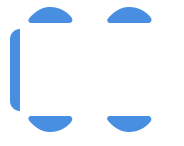
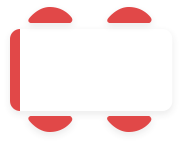
change table color

diff --git a/resources/views/pages/report.blade.php b/resources/views/pages/report.blade.php
@@ -55,59 +55,25 @@
         <section class="order-list">
             <div class="row">
                 <div class="col-md-12 table-responsive">
-                    <table class="table table-striped">
+                    <table class="table table-striped text-center">
                         <thead>
                             <tr>
                                 <td>Date Time</td>
                                 <td>Bill No.</td>
                                 <td>Table Name</td>
                                 <td>Total</td>
-                                <td>Action</td>
                             </tr>
                         </thead>
                         <tbody>
                             @foreach ($bills as $bill)                            
                             
                                 <tr>
-                                    <th>{{$bill->created_at->format('Y:m:d h:i:s A')}}</th>
+                                    <th>{{$bill->created_at->format('d-m-Y | h:i:s A')}}</th>
                                     <td>{{$bill->bill_id}}</td>
                                     <td>{{$bill->table_name}}</td>
-                                    <td>{{$bill->payable}}</td>
-                                    <td class="action">
-                                        <ul>
-                                            <li class="delete">
-                                                <i class="fas fa-trash" data-toggle="modal" data-target="#deletUser"></i>
-                                            </li>
-                                        </ul>
-                                    </td>
+                                    <td>{{$bill->payable}} tk</td>
                                 </tr>
 
-
-                                <!--delete user Modal -->
-                                <div class="modal fade" id="deletUser" tabindex="-1" role="dialog" aria-labelledby="exampleModalLabel" aria-hidden="true">
-                                    <div class="modal-dialog" role="document">
-                                        <div class="modal-content">
-                                            <div class="modal-header">
-                                                <h3 class="modal-title" id="exampleModalLabel">Delete User</h3>
-                                                <button type="button" class="close" data-dismiss="modal" aria-label="Close">
-                                                <span aria-hidden="true">&times;</span>
-                                                </button>
-                                            </div>
-                                            <div class="modal-body add-table-form">
-                                                <form action="" method="POST"> @csrf
-                                                    @method('delete')
-
-                                                    <div class="form-group text-right">
-                                                        <button type="button" class="btn btn-secondary" data-dismiss="modal">Close</button>
-                                                        <button type="submit" class="btn btn-danger">Yes</button>
-                                                    </div>
-                                                    
-                                                </form>
-                                            </div>
-                                        </div>
-                                           
-                                    </div>
-                                </div>
 
 
                             @endforeach

diff --git a/resources/views/pages/inTable.blade.php b/resources/views/pages/inTable.blade.php
@@ -31,8 +31,12 @@
                         @if($table->bill()->where('status', 1)->first())
                         <p>by : {{$table->bill()->where('status', 1)->first()->by}}</p>
                         @endif
+                            @if (Auth::user()->isAdmin)
+                                <a href="{{ route('reset_table', $table->table_id) }}" class="btn btn-danger"> reset table</a>
+                            @endif
                         <button class="bg-info" data-toggle="modal" data-target="#Bill"> guest bill</button>
                         <button class="invoice" data-toggle="modal" data-target="#invoice"> invoice</button>
+                        
                         @endif
                         
                     </div>
@@ -552,7 +556,7 @@
         @if($table->status)
         <div class="row print-button">
             <div class="col-md-12 text-right">
-                <button id="printQt">print qt</button>
+                <button id="printQt">print KOT</button>
             </div>
         </div>
         @endif

diff --git a/resources/views/pages/pick.blade.php b/resources/views/pages/pick.blade.php
@@ -27,6 +27,11 @@
         <!-- page indicator end -->
         <div class="container">
             <div class="row">
+                <div class="col-md-12">
+                    <button class="btn btn-primary" id="prnt">Print Report</button>
+                </div>
+            </div>
+            <div class="row">
                 <div class="col-md-4 offset-md-4">
                     <div id="todayBill">
                         <div style="padding: 10px;background: #fff;box-shadow: #dad9d9 0px 7px 16px -3px;">
@@ -159,4 +164,29 @@
     </div>
 </div>
 <!-- main content end -->
+
+
+
+<script>
+    document.getElementById('prnt').onclick = () => {
+	let x = document.getElementById('todayBill').innerHTML
+		let y = window.open(' ', '_parent')
+		let z = `
+			<style>
+				*{
+					margin: 0;
+					padding: 0;
+				}
+			
+			</style>
+		`
+		y.document.write(z)
+		y.document.write(x)
+		y.print()
+		setTimeout(() => {
+			window.location.reload()
+		}, 300);
+}
+
+</script>
 @endsection

diff --git a/resources/views/pages/today.blade.php b/resources/views/pages/today.blade.php
@@ -27,6 +27,11 @@
         <!-- page indicator end -->
         <div class="container">
             <div class="row">
+                <div class="col-md-12">
+                    <button class="btn btn-primary" id="prnt">Print Report</button>
+                </div>
+            </div>
+            <div class="row">
                 <div class="col-md-4 offset-md-4">
                     <div id="todayBill">
                         <div style="padding: 10px;background: #fff;box-shadow: #dad9d9 0px 7px 16px -3px;">
@@ -139,4 +144,28 @@
     </div>
 </div>
 <!-- main content end -->
+
+
+<script>
+    document.getElementById('prnt').onclick = () => {
+	let x = document.getElementById('todayBill').innerHTML
+		let y = window.open(' ', '_parent')
+		let z = `
+			<style>
+				*{
+					margin: 0;
+					padding: 0;
+				}
+			
+			</style>
+		`
+		y.document.write(z)
+		y.document.write(x)
+		y.print()
+		setTimeout(() => {
+			window.location.reload()
+		}, 300);
+}
+
+</script>
 @endsection

diff --git a/app/Http/Controllers/AdminController.php b/app/Http/Controllers/AdminController.php
@@ -172,7 +172,7 @@ class AdminController extends Controller
 
     public function pick(Request $request)
     {
-        $reports = Bill::whereBetween('created_at', [Carbon::parse($request->from),Carbon::parse($request->to)])->get();
+        $reports = Bill::whereBetween('created_at', [Carbon::parse($request->from),Carbon::parse($request->to)->addDay()])->get();
         $total_bill = 0;
         $total_discount = 0;
         $total_vat = 0;
@@ -233,7 +233,9 @@ class AdminController extends Controller
             array_push($sd, $s);
         }
         $d1 = array_unique($d);
+    
         $sd1 = array_unique($sd);
+      
         $dates = [];
         $sdates = [];
 
@@ -265,5 +267,8 @@ class AdminController extends Controller
         
 
     }
+
+
+   
 
 }

diff --git a/routes/web.php b/routes/web.php
@@ -39,6 +39,7 @@ Route::middleware('auth')->group(function(){
         Route::get('/table', 'AdminController@index')->name('tableShow');
         Route::post('/table', 'TableController@store')->name('add_table');
         Route::delete('/table/{user:user_id}/delete/{table:id}', 'TableController@destroy')->name('deleteTable');
+        Route::get('/table/reset/{table:table_id}', 'TableController@reset')->name('reset_table');
 
         
 

diff --git a/app/Http/Controllers/TableController.php b/app/Http/Controllers/TableController.php
@@ -164,4 +164,16 @@ class TableController extends Controller
         }
         return redirect()->route('tableShow');
     }
+
+
+
+    public function reset(table $table){
+        $bill = $table->bill()->where('status', 1)->first();
+
+        $bill->order()->delete();
+        $bill->delete();
+        $table->status = 0;
+        $table->save();
+        return redirect()->route('home');
+    }
 }

diff --git a/database/migrations/2014_10_12_000000_create_users_table.php b/database/migrations/2014_10_12_000000_create_users_table.php
@@ -22,6 +22,7 @@ class CreateUsersTable extends Migration
             $table->string('admin_id')->default(0);
             $table->string('password');
             $table->rememberToken();
+            $table->timestamp('expire_date')->nullable();
             $table->timestamps();
         });
     }
